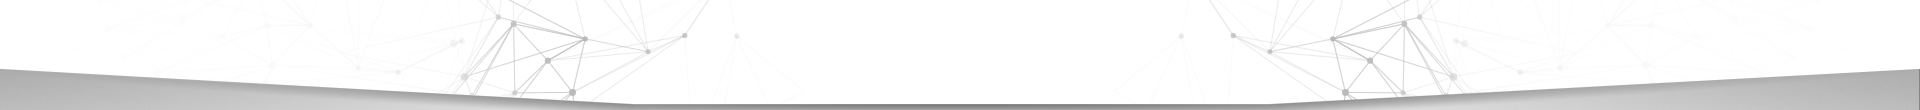
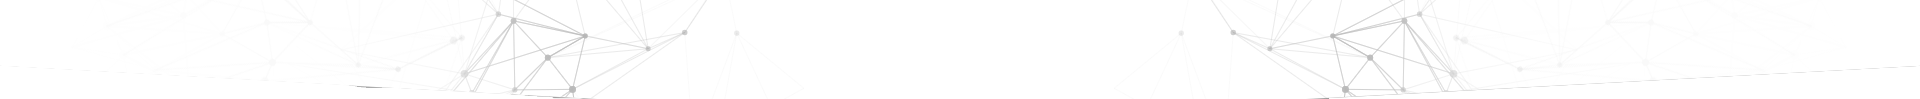
general changes

diff --git a/portfolio/css/style.css b/portfolio/css/style.css
@@ -6,11 +6,11 @@
 	
 @font-face {
     font-family: arialLatArm;
-    src: url(../fonts/Arial-LatArm-Regular-9072.woff);
-    src: url(../fonts/Arial-LatArm-Regular-9072.eot);
-    src: url(../fonts/Arial-LatArm-Regular-9072.ttf);
-    src: url(../fonts/Arial-LatArm-Regular-9072.otf);
-    src: url(../fonts/Arial-LatArm-Regular-9072.svg);
+    src: url(../fonts/Arial-LatArm-Regular-9072.woff),
+    src: url(../fonts/Arial-LatArm-Regular-9072.eot),
+    src: url(../fonts/Arial-LatArm-Regular-9072.ttf),
+    src: url(../fonts/Arial-LatArm-Regular-9072.otf),
+    src: url(../fonts/Arial-LatArm-Regular-9072.svg)
 
 }
 body{
@@ -60,6 +60,8 @@ body{
 	
 	
 	}
+	
+	
 .slides{
 	cursor:default;
 	position:absolute;
@@ -157,9 +159,10 @@ margin-right:0
 .navbar-right li a, .navbar-left li a  {
 	color: gray;
     font-size: 22px;
-    margin-left: 67px;
+    margin-left: 75px;
     font-family:arialLatArm;
     line-height: 73px;	
+	text-transform:uppercase
 }
 
 .nav li a:link{
@@ -206,7 +209,9 @@ margin-right:0
 	margin-top:-75px;
 	font-family:arialLatArm;
 	text-transform:uppercase;
-	font-weight:bold
+	font-weight:bold;
+	text-align:center;
+	width: 100%;
 }
 
 #jssor_1 {
@@ -217,9 +222,26 @@ margin-right:0
 		
 #leftArrow img, #rightArrow img{
 	 height:200px;
-	 cursor:pointer}
+	 }
 	 
-	 
+ #rightArrow{
+	width: 40px;
+    position: static;
+    top: 170px !important;
+    right: 51px;
+    transform: scale(1.43282);
+	cursor:pointer
+
+}
+
+#leftArrow 	{
+	width: 40px !important;
+    position: absolute !important;
+    top: 170px !important;
+    left: 51px;
+    transform: scale(1.43282);
+	cursor:pointer
+}
 .info{
 	display:flex;
     margin-top: 45px;
@@ -230,7 +252,8 @@ margin-right:0
 .info p{
 	color:#fff;
 	font-family:arialLatArm;
-	font-size:14px
+	font-size:14px;
+	white-space:pre-line
 	}	
 .video {
 	display: flex;
@@ -295,9 +318,12 @@ margin-right:0
 	list-style:none
 }
 
+.footer-menu ul{
+	margin-right:150px
+}
 .footer-menu ul li a{
 	color:#fff;
-    font-size: 22px;
+    font-size: 18px;
     font-family: arialLatArm;
 	text-transform:uppercase;
 	text-decoration:none;
@@ -351,7 +377,7 @@ margin-right:0
 		}
 	.navbar-right li a{
 		font-size: 14px;
-		margin-right: 54px;
+		margin-right: 58px;
 		margin-left: 0;
 		}	
 		

diff --git a/portfolio/index.html b/portfolio/index.html
@@ -77,7 +77,7 @@
 						<div class = "hhh">
 						  <h1 >Post Name 1</h1>
 						  <div class = "lightTop col-xs-12 col-md-12 col-sm-12 col-lg-12"></div>
-							<img  src="images/layer_1.png" class = "slideImg" />
+							<img  src="images/layer_2.png" class = "slideImg" />
 						</div>
 						<div>
 						<h1 >Post Name 2</h1>
@@ -87,7 +87,7 @@
 						<div>
 						<h1 >Post Name 3</h1>
 						 <div class = "lightTop col-xs-12 col-md-12 col-sm-12 col-lg-12"></div>
-							<img  src="images/layer_3.png" class = "slideImg"   />
+							<img  src="images/layer_2.png" class = "slideImg"   />
 						</div>
 						
 					</div>
